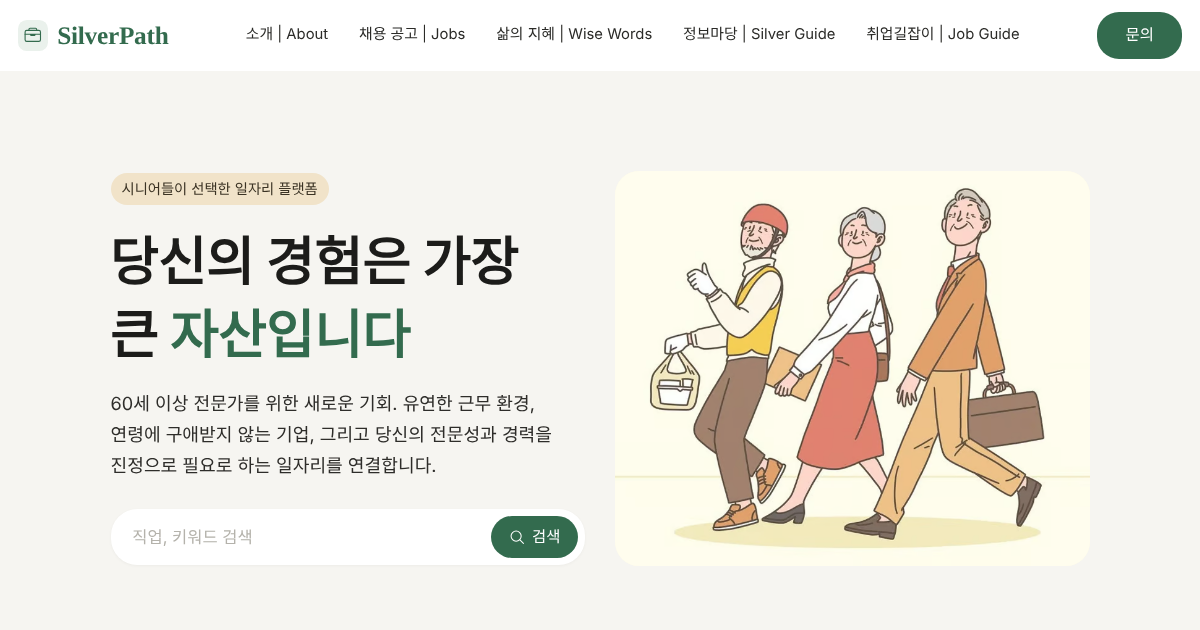
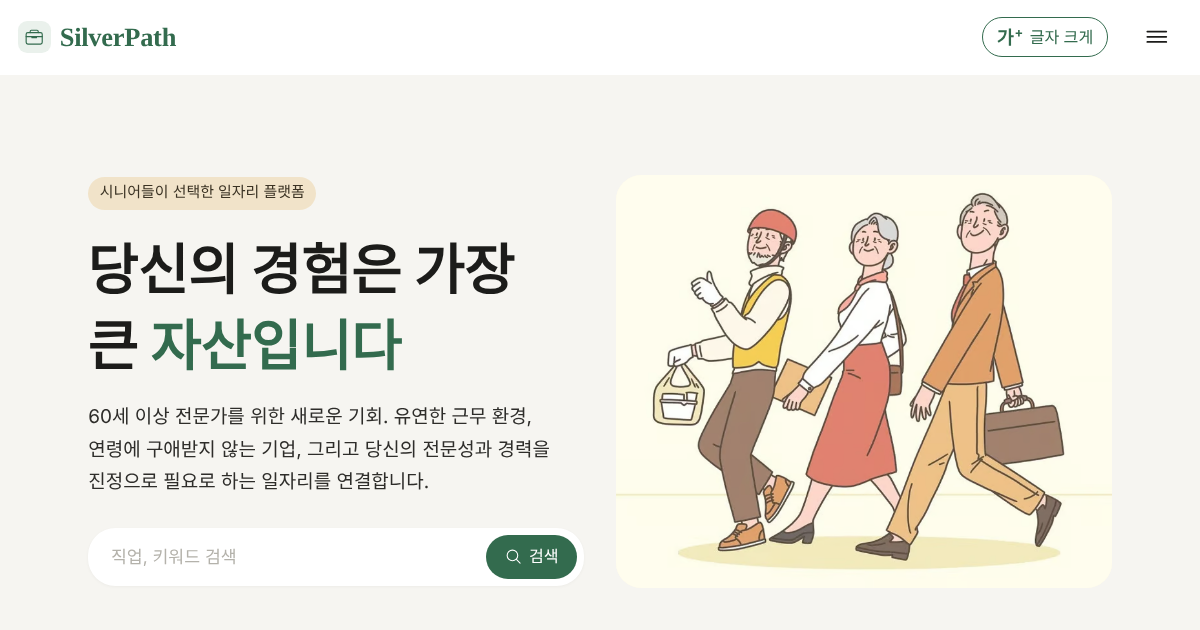
Add files via upload

diff --git a/assets/style.css b/assets/style.css
@@ -10,8 +10,10 @@
   color-scheme:light;
 }
 *{box-sizing:border-box}
-html{font-size:16px}
-@media (min-width:1200px){html{font-size:17.6px}}
+html{font-size:17px}
+@media (min-width:1200px){html{font-size:18.4px}}
+html[data-fs="lg"]{font-size:19.5px}
+@media (min-width:1200px){html[data-fs="lg"]{font-size:21px}}
 body{word-break:keep-all;overflow-wrap:break-word}
 button,a[href],label.opt,select,[role=button]{cursor:pointer}
 button svg,a svg,.lb-x *,.share *,.x *{pointer-events:none}
@@ -32,11 +34,11 @@ p{margin:0}
 /* ---------- Header ---------- */
 .hdr{position:sticky;top:env(safe-area-inset-top,0px);z-index:50;background:var(--card);border-bottom:1px solid transparent}
 .hdr-in{height:4rem;display:flex;align-items:center;gap:1rem;padding-left:max(1rem,env(safe-area-inset-left,0px));padding-right:max(1rem,env(safe-area-inset-right,0px))}
-.logo{display:flex;align-items:center;gap:0.5rem;font-family:var(--serif);font-weight:700;font-size:1.4375rem;color:var(--green);letter-spacing:-.01em;flex:none}
+.logo{white-space:nowrap;display:flex;align-items:center;gap:0.5rem;font-family:var(--serif);font-weight:700;font-size:1.4375rem;color:var(--green);letter-spacing:-.01em;flex:none}
 .logo-ic{width:1.75rem;height:1.75rem;border-radius:0.5rem;background:var(--green-soft);display:grid;place-items:center;color:var(--green)}
 .logo-ic svg{width:1rem;height:1rem}
 .nav{flex:1;display:flex;justify-content:center;gap:1.75rem;font-size:0.84375rem}
-.nav a{color:#2b2b28;padding:0.375rem 0;transition:color .15s}
+.nav a{white-space:nowrap;color:#2b2b28;padding:0.375rem 0;transition:color .15s}
 .nav a:hover{color:var(--green)}
 .nav a.on{color:var(--green);font-weight:500}
 .btn{display:inline-flex;align-items:center;justify-content:center;gap:0.375rem;border:0;border-radius:1.25rem;background:var(--green);color:#fff;font-size:0.875rem;padding:0.5625rem 1.375rem;transition:background .15s}
@@ -47,22 +49,29 @@ p{margin:0}
 .btn.ghost:hover{background:var(--green-soft)}
 .btn[disabled]{background:#c9c9c6;cursor:not-allowed}
 .hdr .cta{flex:none;border-radius:1.25rem;padding:0.625rem 1.625rem}
+.fsbtn{flex:none;height:2.4rem;border:1px solid var(--line-strong);border-radius:1.25rem;background:var(--card);color:#3a3936;display:inline-flex;align-items:center;gap:0.375rem;padding:0 0.875rem 0 0.7rem;font-size:0.875rem;font-weight:500;white-space:nowrap;transition:background .15s,border-color .15s,color .15s}
+.fsbtn svg{width:1.15rem;height:1.15rem;flex:none}
+.fsbtn:hover{border-color:var(--green);color:var(--green)}
+.fsbtn[aria-pressed="true"]{background:var(--green-soft);border-color:var(--green);color:var(--green)}
+@media (max-width:480px){.fsbtn{padding:0 0.7rem;height:2.2rem;font-size:0.8rem}.fsbtn svg{display:none}.logo{font-size:1.25rem}}
+@media (max-width:400px){html[data-fs="lg"] .logo-ic{display:none}html[data-fs="lg"] .logo{font-size:1.1rem}}
+@media (max-width:340px){.logo-ic{display:none}.logo{font-size:1.1rem}}
+html.navc .fsbtn{margin-left:auto}
 .burger{display:none;margin-left:auto;width:2.75rem;height:2.75rem;border:0;border-radius:0.625rem;background:transparent;color:var(--ink);place-items:center}
 .burger svg{width:1.5rem;height:1.5rem}
 .mnav{display:none}
-@media (max-width:1199px){
-  .nav,.hdr .cta{display:none}
-  .burger{display:grid}
-  .mnav{display:block;position:fixed;inset:calc(4rem + env(safe-area-inset-top,0px)) 0 0;z-index:49;background:rgba(28,28,26,.35);opacity:0;pointer-events:none;transition:opacity .2s}
-  .mnav.open{opacity:1;pointer-events:auto}
-  .mnav-panel{background:var(--card);border-top:1px solid var(--line);padding:0.5rem max(1rem,env(safe-area-inset-right,0px)) 1.5rem max(1rem,env(safe-area-inset-left,0px));transform:translateY(-8px);transition:transform .2s;box-shadow:0 0.75rem 1.5rem rgba(0,0,0,.08)}
-  .mnav.open .mnav-panel{transform:none}
-  .mnav-panel a.ml{display:flex;align-items:center;justify-content:space-between;padding:1rem 0.25rem;border-bottom:1px solid var(--line);font-size:1.0625rem}
-  .mnav-panel a.ml.on{color:var(--green);font-weight:600}
-  .mnav-panel a.ml svg{width:1.125rem;height:1.125rem;color:var(--faint)}
-  .mnav-panel .btn{width:100%;margin-top:1.25rem;border-radius:1.25rem;padding:0.875rem;font-size:1rem}
-  body.menu-open{overflow:hidden}
-}
+/* compact header: html.navc is set by script whenever the full nav would not fit */
+html.navc .nav,html.navc .hdr .cta{display:none}
+html.navc .burger{display:grid;margin-left:0.25rem}
+html.navc .mnav{display:block;position:fixed;inset:calc(4rem + env(safe-area-inset-top,0px)) 0 0;z-index:49;background:rgba(28,28,26,.35);opacity:0;pointer-events:none;transition:opacity .2s}
+html.navc .mnav.open{opacity:1;pointer-events:auto}
+html.navc .mnav-panel{background:var(--card);border-top:1px solid var(--line);padding:0.5rem max(1rem,env(safe-area-inset-right,0px)) 1.5rem max(1rem,env(safe-area-inset-left,0px));transform:translateY(-8px);transition:transform .2s;box-shadow:0 0.75rem 1.5rem rgba(0,0,0,.08)}
+html.navc .mnav.open .mnav-panel{transform:none}
+html.navc .mnav-panel a.ml{display:flex;align-items:center;justify-content:space-between;padding:1rem 0.25rem;border-bottom:1px solid var(--line);font-size:1.0625rem}
+html.navc .mnav-panel a.ml.on{color:var(--green);font-weight:600}
+html.navc .mnav-panel a.ml svg{width:1.125rem;height:1.125rem;color:var(--faint)}
+html.navc .mnav-panel .btn{width:100%;margin-top:1.25rem;border-radius:1.25rem;padding:0.875rem;font-size:1rem}
+html.navc body.menu-open{overflow:hidden}
 
 /* ---------- Shared sections ---------- */
 main{flex:1 0 auto}
@@ -90,10 +99,13 @@ main{flex:1 0 auto}
 .ftr ul a{opacity:.92}.ftr ul a:hover{opacity:1;text-decoration:underline}
 .ftr .si{display:flex;align-items:center;gap:0.5rem}
 .ftr .si svg{width:0.875rem;height:0.875rem}
-@media (max-width:760px){.ftr-in{grid-template-columns:1fr 1fr}.ftr-in>div:first-child{grid-column:1/-1}}
+@media (max-width:760px){.ftr-in{grid-template-columns:repeat(2,minmax(0,1fr))}.ftr-in>div:first-child{grid-column:1/-1}}
+@media (max-width:480px){.ftr-in{grid-template-columns:minmax(0,1fr)}}
+.ftr .si{overflow-wrap:anywhere;word-break:break-all}
 
 /* ---------- Home ---------- */
-.home-hero{display:grid;grid-template-columns:1fr 1fr;gap:1.75rem;align-items:center;padding-block:4.25rem 4rem}
+.home-hero>*{min-width:0}
+.home-hero{display:grid;grid-template-columns:repeat(2,minmax(0,1fr));gap:1.75rem;align-items:center;padding-block:4.25rem 4rem}
 .pill{display:inline-block;background:var(--tan);color:#3b3324;font-size:0.8125rem;padding:0.25rem 0.625rem;border-radius:62.4375rem}
 .home-hero h1{font-size:clamp(2.125rem,5vw,3rem);line-height:1.38;margin-top:1.125rem}
 .home-hero h1 em{font-style:normal;color:var(--green)}
@@ -138,7 +150,7 @@ main{flex:1 0 auto}
 .toast .x svg{width:1.125rem;height:1.125rem}
 @media (max-width:520px){.toast{right:1rem;left:1rem;width:auto;bottom:calc(1rem + env(safe-area-inset-bottom,0px))}}
 @media (max-width:860px){
-  .home-hero{grid-template-columns:1fr;padding-block:2.5rem 2rem}
+  .home-hero{grid-template-columns:minmax(0,1fr);padding-block:2.5rem 2rem}
   .hero-art{order:-1;aspect-ratio:16/10}
   .cats{grid-template-columns:repeat(2,1fr)}
 }

diff --git a/assets/app.js b/assets/app.js
@@ -47,7 +47,28 @@ function setMenu(open){mnav.classList.toggle('open',open);burger.setAttribute('a
 burger.onclick=()=>setMenu(!mnav.classList.contains('open'));
 mnav.addEventListener('click',e=>{if(e.target===mnav||e.target.closest('a'))setMenu(false)});
 addEventListener('keydown',e=>{if(e.key==='Escape'){setMenu(false);closeLB()}});
-addEventListener('resize',()=>{if(innerWidth>=1200)setMenu(false)});
+/* header: collapse into the menu button whenever the full nav does not fit */
+const hdrIn=document.querySelector('.hdr-in'),root=document.documentElement;
+function fitNav(){
+  root.classList.remove('navc');
+  const tooTight=hdrIn.scrollWidth>hdrIn.clientWidth+1||innerWidth<760;
+  root.classList.toggle('navc',tooTight);
+  if(!tooTight)setMenu(false);
+}
+addEventListener('resize',fitNav);
+document.fonts&&document.fonts.ready.then(fitNav);
+/* larger text toggle, remembered on this device */
+const fsBtn=document.getElementById('fsbtn');
+function setFS(on){
+  if(on)root.dataset.fs='lg';else delete root.dataset.fs;
+  fsBtn.setAttribute('aria-pressed',on);
+  fsBtn.querySelector('.fsl').textContent=on?'글자 작게':'글자 크게';
+  try{localStorage.setItem('sp-fs',on?'lg':'')}catch(e){}
+  fitNav();
+}
+fsBtn.onclick=()=>setFS(root.dataset.fs!=='lg');
+let fsSaved='';try{fsSaved=localStorage.getItem('sp-fs')||''}catch(e){}
+setFS(fsSaved==='lg');
 
 /* ---------- jobs helpers ---------- */
 const J=DATA.jobs.map(r=>({order:r[0],cat:r[1],title:r[2],co:r[3],addr:r[4],pay:r[5],dl:r[6],career:r[7],edu:r[8],pref:r[9],hours:r[10],type:r[11],desc:r[12],ben:r[13],contact:r[14],url:r[15]}));

diff --git a/404.html b/404.html
@@ -35,6 +35,7 @@
   <div class="hdr-in">
     <a href="#" class="logo" data-nav aria-label="SilverPath 홈"><span class="logo-ic" data-ico="briefcase"></span>SilverPath</a>
     <nav class="nav" aria-label="주요 메뉴" id="nav"></nav>
+    <button class="fsbtn" id="fsbtn" aria-pressed="false"><svg viewBox="0 0 24 24" fill="none" stroke="currentColor" stroke-width="2" stroke-linecap="round" stroke-linejoin="round" aria-hidden="true"><path d="M9.5 5.5h11M15 5.5v13"/><path d="M3.5 11h6M6.5 11v7.5"/></svg><span class="fsl">글자 크게</span></button>
     <a href="#contact" class="btn cta">문의</a>
     <button class="burger" id="burger" aria-label="메뉴 열기" aria-expanded="false" aria-controls="mnav"><span data-ico="menu"></span></button>
   </div>

diff --git a/about/index.html b/about/index.html
@@ -35,6 +35,7 @@
   <div class="hdr-in">
     <a href="#" class="logo" data-nav aria-label="SilverPath 홈"><span class="logo-ic" data-ico="briefcase"></span>SilverPath</a>
     <nav class="nav" aria-label="주요 메뉴" id="nav"></nav>
+    <button class="fsbtn" id="fsbtn" aria-pressed="false"><svg viewBox="0 0 24 24" fill="none" stroke="currentColor" stroke-width="2" stroke-linecap="round" stroke-linejoin="round" aria-hidden="true"><path d="M9.5 5.5h11M15 5.5v13"/><path d="M3.5 11h6M6.5 11v7.5"/></svg><span class="fsl">글자 크게</span></button>
     <a href="#contact" class="btn cta">문의</a>
     <button class="burger" id="burger" aria-label="메뉴 열기" aria-expanded="false" aria-controls="mnav"><span data-ico="menu"></span></button>
   </div>

diff --git a/contact/index.html b/contact/index.html
@@ -35,6 +35,7 @@
   <div class="hdr-in">
     <a href="#" class="logo" data-nav aria-label="SilverPath 홈"><span class="logo-ic" data-ico="briefcase"></span>SilverPath</a>
     <nav class="nav" aria-label="주요 메뉴" id="nav"></nav>
+    <button class="fsbtn" id="fsbtn" aria-pressed="false"><svg viewBox="0 0 24 24" fill="none" stroke="currentColor" stroke-width="2" stroke-linecap="round" stroke-linejoin="round" aria-hidden="true"><path d="M9.5 5.5h11M15 5.5v13"/><path d="M3.5 11h6M6.5 11v7.5"/></svg><span class="fsl">글자 크게</span></button>
     <a href="#contact" class="btn cta">문의</a>
     <button class="burger" id="burger" aria-label="메뉴 열기" aria-expanded="false" aria-controls="mnav"><span data-ico="menu"></span></button>
   </div>

diff --git a/index.html b/index.html
@@ -35,6 +35,7 @@
   <div class="hdr-in">
     <a href="#" class="logo" data-nav aria-label="SilverPath 홈"><span class="logo-ic" data-ico="briefcase"></span>SilverPath</a>
     <nav class="nav" aria-label="주요 메뉴" id="nav"></nav>
+    <button class="fsbtn" id="fsbtn" aria-pressed="false"><svg viewBox="0 0 24 24" fill="none" stroke="currentColor" stroke-width="2" stroke-linecap="round" stroke-linejoin="round" aria-hidden="true"><path d="M9.5 5.5h11M15 5.5v13"/><path d="M3.5 11h6M6.5 11v7.5"/></svg><span class="fsl">글자 크게</span></button>
     <a href="#contact" class="btn cta">문의</a>
     <button class="burger" id="burger" aria-label="메뉴 열기" aria-expanded="false" aria-controls="mnav"><span data-ico="menu"></span></button>
   </div>

diff --git a/job-guide/index.html b/job-guide/index.html
@@ -35,6 +35,7 @@
   <div class="hdr-in">
     <a href="#" class="logo" data-nav aria-label="SilverPath 홈"><span class="logo-ic" data-ico="briefcase"></span>SilverPath</a>
     <nav class="nav" aria-label="주요 메뉴" id="nav"></nav>
+    <button class="fsbtn" id="fsbtn" aria-pressed="false"><svg viewBox="0 0 24 24" fill="none" stroke="currentColor" stroke-width="2" stroke-linecap="round" stroke-linejoin="round" aria-hidden="true"><path d="M9.5 5.5h11M15 5.5v13"/><path d="M3.5 11h6M6.5 11v7.5"/></svg><span class="fsl">글자 크게</span></button>
     <a href="#contact" class="btn cta">문의</a>
     <button class="burger" id="burger" aria-label="메뉴 열기" aria-expanded="false" aria-controls="mnav"><span data-ico="menu"></span></button>
   </div>

diff --git a/jobs/index.html b/jobs/index.html
@@ -35,6 +35,7 @@
   <div class="hdr-in">
     <a href="#" class="logo" data-nav aria-label="SilverPath 홈"><span class="logo-ic" data-ico="briefcase"></span>SilverPath</a>
     <nav class="nav" aria-label="주요 메뉴" id="nav"></nav>
+    <button class="fsbtn" id="fsbtn" aria-pressed="false"><svg viewBox="0 0 24 24" fill="none" stroke="currentColor" stroke-width="2" stroke-linecap="round" stroke-linejoin="round" aria-hidden="true"><path d="M9.5 5.5h11M15 5.5v13"/><path d="M3.5 11h6M6.5 11v7.5"/></svg><span class="fsl">글자 크게</span></button>
     <a href="#contact" class="btn cta">문의</a>
     <button class="burger" id="burger" aria-label="메뉴 열기" aria-expanded="false" aria-controls="mnav"><span data-ico="menu"></span></button>
   </div>

diff --git a/silver-guide/index.html b/silver-guide/index.html
@@ -35,6 +35,7 @@
   <div class="hdr-in">
     <a href="#" class="logo" data-nav aria-label="SilverPath 홈"><span class="logo-ic" data-ico="briefcase"></span>SilverPath</a>
     <nav class="nav" aria-label="주요 메뉴" id="nav"></nav>
+    <button class="fsbtn" id="fsbtn" aria-pressed="false"><svg viewBox="0 0 24 24" fill="none" stroke="currentColor" stroke-width="2" stroke-linecap="round" stroke-linejoin="round" aria-hidden="true"><path d="M9.5 5.5h11M15 5.5v13"/><path d="M3.5 11h6M6.5 11v7.5"/></svg><span class="fsl">글자 크게</span></button>
     <a href="#contact" class="btn cta">문의</a>
     <button class="burger" id="burger" aria-label="메뉴 열기" aria-expanded="false" aria-controls="mnav"><span data-ico="menu"></span></button>
   </div>

diff --git a/survey/index.html b/survey/index.html
@@ -35,6 +35,7 @@
   <div class="hdr-in">
     <a href="#" class="logo" data-nav aria-label="SilverPath 홈"><span class="logo-ic" data-ico="briefcase"></span>SilverPath</a>
     <nav class="nav" aria-label="주요 메뉴" id="nav"></nav>
+    <button class="fsbtn" id="fsbtn" aria-pressed="false"><svg viewBox="0 0 24 24" fill="none" stroke="currentColor" stroke-width="2" stroke-linecap="round" stroke-linejoin="round" aria-hidden="true"><path d="M9.5 5.5h11M15 5.5v13"/><path d="M3.5 11h6M6.5 11v7.5"/></svg><span class="fsl">글자 크게</span></button>
     <a href="#contact" class="btn cta">문의</a>
     <button class="burger" id="burger" aria-label="메뉴 열기" aria-expanded="false" aria-controls="mnav"><span data-ico="menu"></span></button>
   </div>

diff --git a/wise-words/driving-miss-daisy/index.html b/wise-words/driving-miss-daisy/index.html
@@ -35,6 +35,7 @@
   <div class="hdr-in">
     <a href="#" class="logo" data-nav aria-label="SilverPath 홈"><span class="logo-ic" data-ico="briefcase"></span>SilverPath</a>
     <nav class="nav" aria-label="주요 메뉴" id="nav"></nav>
+    <button class="fsbtn" id="fsbtn" aria-pressed="false"><svg viewBox="0 0 24 24" fill="none" stroke="currentColor" stroke-width="2" stroke-linecap="round" stroke-linejoin="round" aria-hidden="true"><path d="M9.5 5.5h11M15 5.5v13"/><path d="M3.5 11h6M6.5 11v7.5"/></svg><span class="fsl">글자 크게</span></button>
     <a href="#contact" class="btn cta">문의</a>
     <button class="burger" id="burger" aria-label="메뉴 열기" aria-expanded="false" aria-controls="mnav"><span data-ico="menu"></span></button>
   </div>

diff --git a/wise-words/gran-torino/index.html b/wise-words/gran-torino/index.html
@@ -35,6 +35,7 @@
   <div class="hdr-in">
     <a href="#" class="logo" data-nav aria-label="SilverPath 홈"><span class="logo-ic" data-ico="briefcase"></span>SilverPath</a>
     <nav class="nav" aria-label="주요 메뉴" id="nav"></nav>
+    <button class="fsbtn" id="fsbtn" aria-pressed="false"><svg viewBox="0 0 24 24" fill="none" stroke="currentColor" stroke-width="2" stroke-linecap="round" stroke-linejoin="round" aria-hidden="true"><path d="M9.5 5.5h11M15 5.5v13"/><path d="M3.5 11h6M6.5 11v7.5"/></svg><span class="fsl">글자 크게</span></button>
     <a href="#contact" class="btn cta">문의</a>
     <button class="burger" id="burger" aria-label="메뉴 열기" aria-expanded="false" aria-controls="mnav"><span data-ico="menu"></span></button>
   </div>
